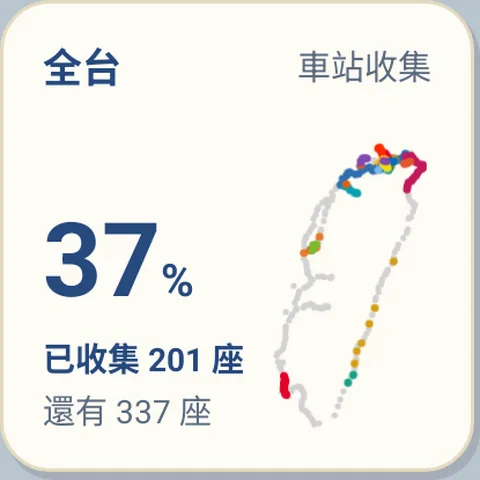
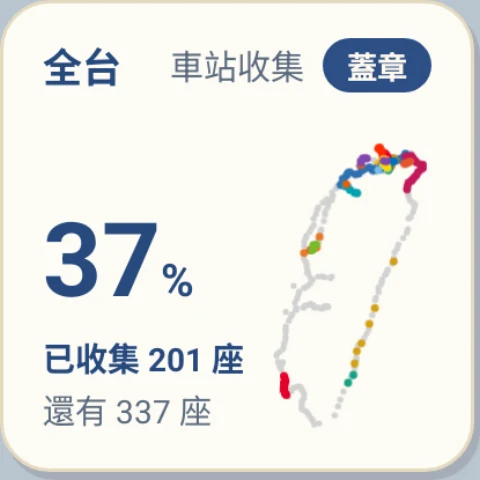
fix(collect-widget/android): 副標可見性明講兩個分支回到 small()（parity 閘門）；說明中心 Android 預覽圖重產含蓋章鈕
- smallHeader 改回傳 kick，small() 明講 wc_subtitle 兩個分支；行為不變（預言機 293 案 0 紅）
- assets/widgets/android/collect-small.webp／collect-medium.webp 取自本輪 run.sh 的真實渲染（sample-all-small-s158-light、sample-all-medium-m360-light）

diff --git a/app/android/app/src/main/java/tw/railisland/app/CollectionWidgetRender.java b/app/android/app/src/main/java/tw/railisland/app/CollectionWidgetRender.java
@@ -75,7 +75,9 @@ final class CollectionWidgetRender {
         RemoteViews v = new RemoteViews(c.getPackageName(), R.layout.widget_collect_small);
         float fs = fontScale(c);
         String kicker = RailNativeL10n.text(c, "車站收集");
-        smallHeader(c, v, f, kicker, wDp, fs);
+        // 副標的可見性在這裡明講兩個分支（launcher 是 reapply 到舊 View 樹）；字級在 smallHeader 兩個分支都設
+        boolean kick = smallHeader(c, v, f, kicker, wDp, fs);
+        v.setViewVisibility(R.id.wc_subtitle, kick ? android.view.View.VISIBLE : android.view.View.GONE);
 
         // 文字欄寬（dp）：版面權重 58／42。窄到文字放不下（多半是 110dp 寬的 2×2）就整個放掉地圖，
         // 讓文字欄吃滿整張卡——「數字被裁」比「少一張地圖」糟得多，關鍵數字永遠優先。
@@ -148,9 +150,10 @@ final class CollectionWidgetRender {
     /**
      * 小卡標題列 [標題][副標][蓋章]（蓋章鈕固定 18dp 高、比標題矮，不會撐高這一列）。放不下時依序退讓：
      * 先收副標（與 iOS ViewThatFits 同一個取捨）；標題加按鈕還是放不下，就把兩者字級一起縮（最多縮到 70%）。
+     * 回傳副標要不要顯示（可見性由 small() 明講兩個分支）。
      * 🔴 字級兩個分支都要明講：launcher 是 reapply 到舊 View 樹，沒提到的屬性會停在上一次的樣子。
      */
-    private static void smallHeader(Context c, RemoteViews v, CollectionData.Figures f, String kicker, int wDp, float fs) {
+    private static boolean smallHeader(Context c, RemoteViews v, CollectionData.Figures f, String kicker, int wDp, float fs) {
         String stamp = RailNativeL10n.text(c, "蓋章");
         v.setTextViewText(R.id.wc_title, f.title);
         v.setTextViewText(R.id.wc_subtitle, kicker);
@@ -159,12 +162,12 @@ final class CollectionWidgetRender {
         float stampText = tightWidth(stamp, 10 * fs) * 1.1f;           // 粗體加寬 10%
         float stampW = stampText + STAMP_PAD + 6;                      // ＋左右內距＋與前一個元素的間距
         boolean kick = estimatedWidth(f.title, 13 * fs) + 4 + estimatedWidth(kicker, 11 * fs) + stampW <= rowW;
-        v.setViewVisibility(R.id.wc_subtitle, kick ? android.view.View.VISIBLE : android.view.View.GONE);
         float titleText = tightWidth(f.title, 13 * fs) * 1.1f;         // Latin 粗體比 0.5em 略寬，留 10%
         float scale = 1f;
         if (!kick && titleText + stampW > rowW) scale = Math.max(0.7f, (rowW - STAMP_PAD - 6) / (titleText + stampText));
         v.setTextViewTextSize(R.id.wc_title, android.util.TypedValue.COMPLEX_UNIT_SP, 13 * scale);
         v.setTextViewTextSize(R.id.wc_stamp, android.util.TypedValue.COMPLEX_UNIT_SP, 10 * scale);
+        return kick;
     }
 
     // ── 中卡 ───────────────────────────────────────────────────────────────────
